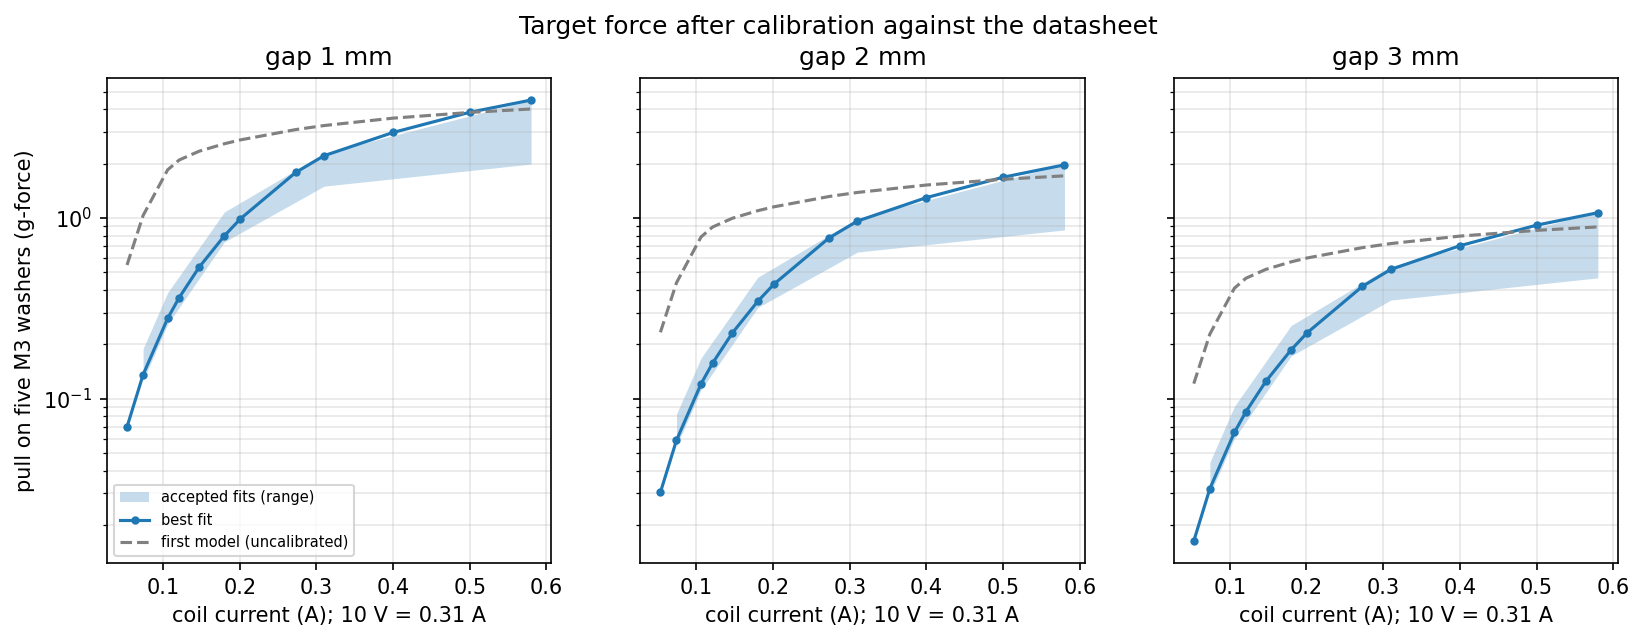
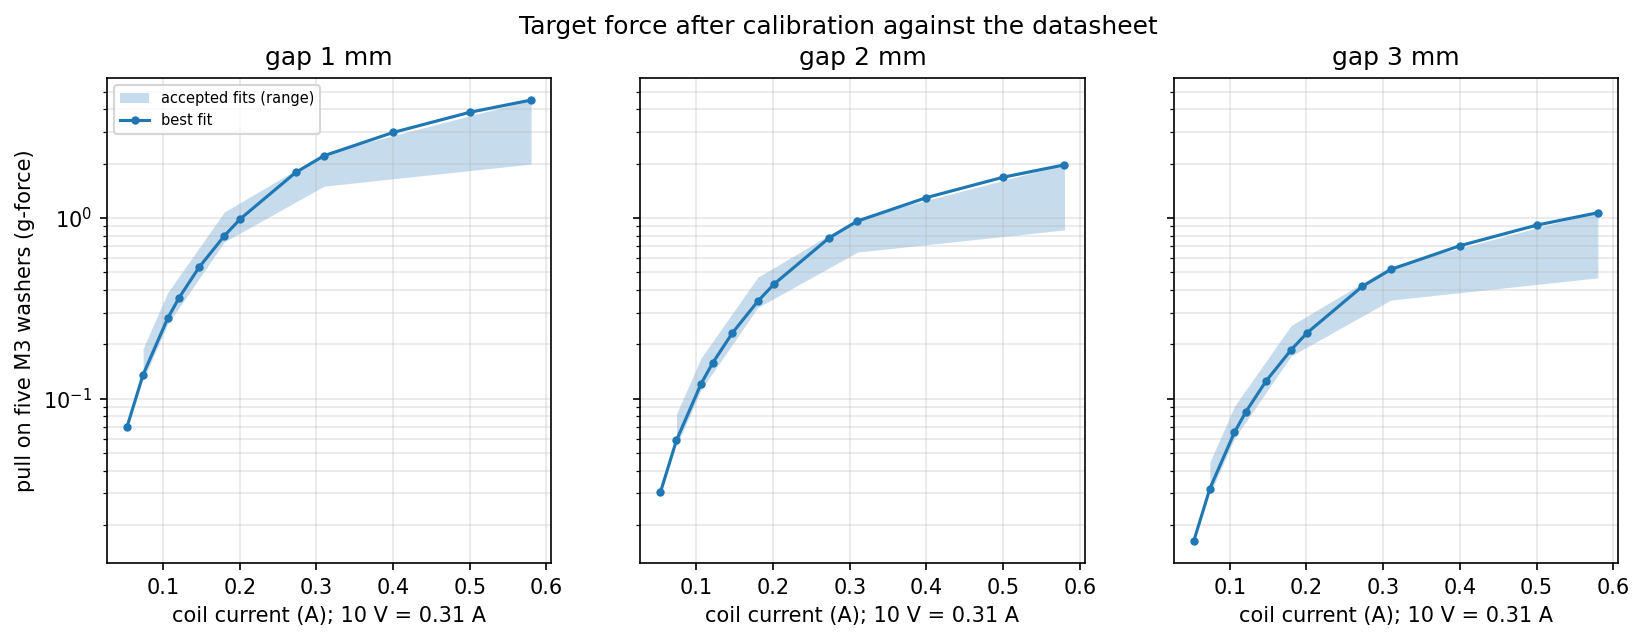
Drop the first-model overlays from the calibration figures.

diff --git a/simulations/ledex_femm/plot_results.py b/simulations/ledex_femm/plot_results.py
@@ -5,7 +5,7 @@
 
 Data: results/sweeps.csv (one row per FEMM solve), results/fieldgrid_*.csv (r, z, Br, Bz, |B| on a
 0.25 mm grid), results/calibration/ (datasheet fit and the target-force band) and
-results/uncalibrated/ (the first, uncalibrated model, for comparison). See README.md.
+results/uncalibrated/ (the first model, kept for the record; not plotted). See README.md.
 """
 import argparse
 import csv
@@ -221,10 +221,6 @@ def plot_calibration_fit():
             ax.plot(*zip(*m), style, color="C0" if eid else "grey", label=lab)
         d = sorted((p["stroke_mm"], p["datasheet_N"]) for p in sel if p["eval"] == 0)
         ax.plot(*zip(*d), "o", color="C3", ms=4, label="datasheet (digitized)")
-        if duty == 100 and os.path.exists(os.path.join(RES, "uncalibrated", "stroke.csv")):
-            old = read_csv(os.path.join(RES, "uncalibrated", "stroke.csv"))
-            o = sorted((r["stroke_mm"], r["plunger_force_N"]) for r in old if abs(r["current_A"] - 0.58) < 1e-3)
-            ax.plot(*zip(*o), "x", color="k", ms=6, label="first model (9.5 mm protrusion), 0.58 A")
         ax.set_title("{} % duty, {} ({:.2f} A)".format(duty, txt, cur), fontsize=10)
         ax.set_yscale("log")
         ax.grid(True, which="both", alpha=0.3)
@@ -244,7 +240,6 @@ def plot_calibration_fit():
 def plot_target_band(rows, band):
     if not band:
         return
-    old = load_sweeps(os.path.join(RES, "uncalibrated", "sweeps.csv"))
     fig, axes = plt.subplots(1, 3, figsize=(13, 4.2), sharey=True)
     for ax, g in zip(axes, [1, 2, 3]):
         ba = sorted(k[1] for k in band if k[0] == g)
@@ -253,8 +248,6 @@ def plot_target_band(rows, band):
         cal = sorted((r["current_A"], r["target_force_g"]) for r in rows
                      if r["case"] == "baseline_gap{:g}".format(g))
         ax.plot(*zip(*cal), "o-", color="C0", ms=3, label="best fit")
-        un = sorted((r["current_A"], r["target_force_g"]) for r in old if r["case"] == "baseline_gap{:g}".format(g))
-        ax.plot(*zip(*un), "--", color="grey", label="first model (uncalibrated)")
         ax.set_title("gap {} mm".format(g))
         ax.set_xlabel("coil current (A); 10 V = 0.31 A")
         ax.set_yscale("log")
